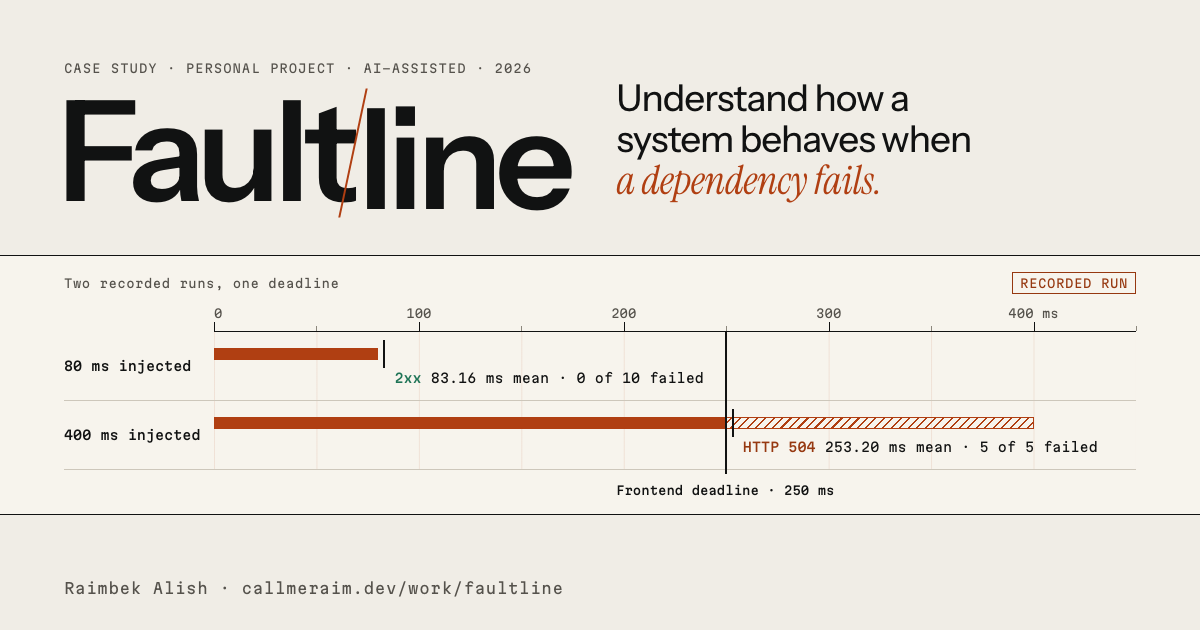
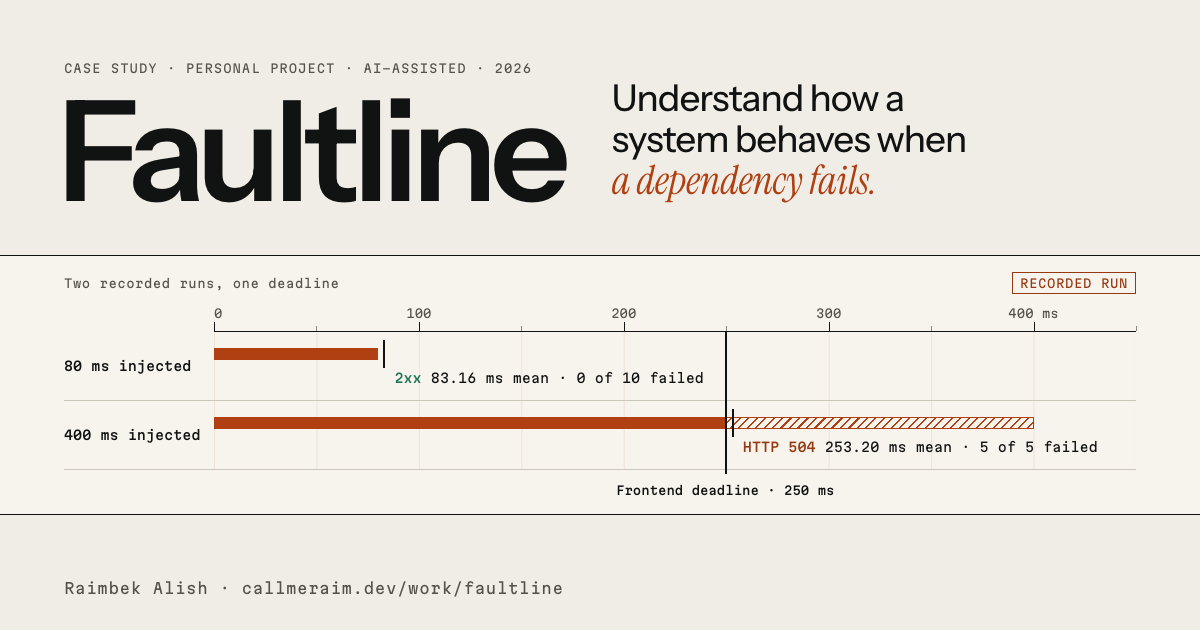
fix(design): keep the hero statement clear of the name; plain Faultline title; phone-sized status chapter
Hero: on short, wide screens the name is sized by the viewport's height, so its second
line starts further left, and the statement could run into "Alish" (seen at 1200 × 630
and 1280 × 600). The statement's width is now capped at the start of that line
(--line2-at, measured in em of the name). The overlap check is clean at 12 sizes.

Faultline: the title's slash through the "t" and the dropped "line" read as
"Fault/line" at phone size. The homepage showcase and the case study now set the name
plainly, like the other case-study titles; the social card is re-rendered to match.

Faultline case study, on phones:
- The status chapter keeps a per-status key with counts in view and moves the twelve
  capabilities and their sources into a fold (open in the HTML; folded on phones and
  tablets; a link into the page keeps it open). On phones it goes from 2,189 px to
  704 px.
- The dashboard figure links to the screenshot at full size (1440 × 1082) and to the
  original in the repository.

Changed region(s): [[0.2775, 0.1206, 0.8325, 0.3317]]

diff --git a/src/work/faultline/sections/Chapters.tsx b/src/work/faultline/sections/Chapters.tsx
@@ -19,6 +19,7 @@ import {
   traceChain,
   traceRun,
   validation,
+  type CapabilityStatus,
   type RecordedRun,
 } from "../../../content/faultline";
 import { caseStudy as reproseedCase } from "../../../content/reproseed";
@@ -288,9 +289,14 @@ export function Records() {
               <EvidenceTag kind="screenshot" />
             </span>
             <span>{shot.caption}</span>
-            <a className="fl-original" href={shot.original} target="_blank" rel="noreferrer">
-              Open the original screenshot (PNG, 1440 × 1082) <ArrowUpRight aria-hidden="true" strokeWidth={1.75} />
-            </a>
+            <span className="fl-shot-links">
+              <a className="fl-original" href={shot.src} target="_blank" rel="noreferrer">
+                View at full size ({shot.width} × {shot.height}) <ArrowUpRight aria-hidden="true" strokeWidth={1.75} />
+              </a>
+              <a className="fl-original" href={shot.original} target="_blank" rel="noreferrer">
+                The original in the repository (PNG) <ArrowUpRight aria-hidden="true" strokeWidth={1.75} />
+              </a>
+            </span>
           </figcaption>
         </figure>
         <dl className="fl-records-facts">
@@ -351,33 +357,38 @@ export function Status() {
       title="The repository holds more than the release."
       lede={intro.release}
     >
-      <p className="fl-caps-cap" id="fl-status-cap">Capabilities by status, at main {faultline.commit.sha}</p>
-      <div className="fl-caps-head" aria-hidden="true">
-        <span>Capability</span>
-        <span>Status</span>
-        <span>Detail</span>
-      </div>
-      <ul className="fl-caps" aria-labelledby="fl-status-cap">
-        {capabilities.map((c) => (
-          <li key={c.name} className="fl-cap" data-status={c.status}>
-            <b className="fl-cap-name">{c.name}</b>
-            <span className="fl-cap-status">
-              <span className="fl-chip" data-status={c.status}>{capabilityStatus[c.status].label}</span>
-            </span>
-            <span className="fl-cap-note">
-              {c.note} <Cite href={c.source}>Source</Cite>
-            </span>
-          </li>
-        ))}
-      </ul>
       <dl className="fl-chip-key">
-        {Object.entries(capabilityStatus).map(([key, s]) => (
+        {(Object.keys(capabilityStatus) as CapabilityStatus[]).map((key) => (
           <div key={key}>
-            <dt><span className="fl-chip" data-status={key}>{s.label}</span></dt>
-            <dd>{s.detail}</dd>
+            <dt>
+              <span className="fl-chip" data-status={key}>{capabilityStatus[key].label}</span>
+              <span className="fl-chip-count">{capabilities.filter((c) => c.status === key).length}</span>
+            </dt>
+            <dd>{capabilityStatus[key].detail}</dd>
           </div>
         ))}
       </dl>
+      <Fold summary={`All ${capabilities.length} capabilities, with their sources`}>
+        <p className="fl-caps-cap" id="fl-status-cap">Capabilities by status, at main {faultline.commit.sha}</p>
+        <div className="fl-caps-head" aria-hidden="true">
+          <span>Capability</span>
+          <span>Status</span>
+          <span>Detail</span>
+        </div>
+        <ul className="fl-caps" aria-labelledby="fl-status-cap">
+          {capabilities.map((c) => (
+            <li key={c.name} className="fl-cap" data-status={c.status}>
+              <b className="fl-cap-name">{c.name}</b>
+              <span className="fl-cap-status">
+                <span className="fl-chip" data-status={c.status}>{capabilityStatus[c.status].label}</span>
+              </span>
+              <span className="fl-cap-note">
+                {c.note} <Cite href={c.source}>Source</Cite>
+              </span>
+            </li>
+          ))}
+        </ul>
+      </Fold>
     </Chapter>
   );
 }

diff --git a/src/work/faultline/styles/page.css b/src/work/faultline/styles/page.css
@@ -23,12 +23,6 @@
 .fl-hero-text { grid-column: 1 / 8; container-type: inline-size; }
 /* "Faultline" is about 4.1em wide at this weight and tracking: fit it to the text column. */
 .fl-hero-title { margin: 14px 0 0 -.045em; font-size: min(23cqw, 178px); font-weight: 600; line-height: .86; letter-spacing: -.05em; }
-/* "line" has slipped along a fault, as on the homepage. */
-.fl-slip { position: relative; display: inline-block; margin-left: .035em; transform: translateY(.06em); }
-.fl-slip::before {
-  content: ""; position: absolute; left: -.045em; top: -.08em; bottom: .02em; width: max(2px, .016em);
-  background: var(--fl-fault); transform: skewX(-12deg);
-}
 .fl-hero-thesis { max-width: 14em; margin-top: 26px; font-size: clamp(26px, 3vw, 44px); font-weight: 450; line-height: 1.1; letter-spacing: -.028em; text-wrap: balance; }
 .fl-hero-thesis em { font-family: var(--serif); font-style: italic; font-weight: 400; font-size: 1.08em; letter-spacing: -.01em; color: var(--fl-fault); }
 .fl-hero-aside { grid-column: 8 / 13; display: grid; gap: 14px; padding-bottom: 6px; }
@@ -197,6 +191,7 @@
   color: var(--ink); text-decoration: underline; text-underline-offset: 4px; text-decoration-thickness: 1px;
 }
 .fl-original:hover { text-decoration-thickness: 2px; }
+.fl-shot-links { display: flex; flex-wrap: wrap; gap: 0 24px; }
 .fl-original svg { width: 14px; height: 14px; }
 .fl-records-facts { grid-column: 9 / 13; display: grid; gap: 18px; }
 .fl-records-facts > div { padding-top: 12px; border-top: 1px solid var(--ink); }
@@ -241,8 +236,12 @@
 .fl-chip[data-status="planned"]::before { border: 1.5px dotted var(--ink-2); }
 .fl-chip[data-status="unsupported"] { color: var(--ink-2); }
 .fl-chip[data-status="unsupported"]::before { width: 9px; height: 9px; background: linear-gradient(45deg, transparent 45%, var(--ink-2) 45% 55%, transparent 55%), linear-gradient(-45deg, transparent 45%, var(--ink-2) 45% 55%, transparent 55%); }
-.fl-chip-key { display: grid; grid-template-columns: repeat(3, minmax(0, 1fr)); gap: 12px var(--g); margin-top: 20px; }
+/* The counts by status: the chapter's summary, always shown above the full list. */
+.fl-chip-key { display: grid; grid-template-columns: repeat(3, minmax(0, 1fr)); gap: 14px var(--g); margin-bottom: 22px; }
+.fl-chip-key dt { display: flex; align-items: center; gap: 10px; }
+.fl-chip-count { font: 500 16px/1 var(--mono); font-variant-numeric: tabular-nums; }
 .fl-chip-key dd { margin-top: 4px; font-size: 13px; line-height: 1.4; color: var(--ink-2); }
+#status .cs-fold-body { padding-top: 14px; }
 
 /* ---------- 06 · What the record shows ---------- */
 .fl-close { display: grid; grid-template-columns: repeat(3, minmax(0, 1fr)); gap: 32px var(--g); }

diff --git a/src/signal-path/sections/Faultline.tsx b/src/signal-path/sections/Faultline.tsx
@@ -9,8 +9,6 @@ import { CaseStudyLink, OutLink, WorkIndex } from "../ui";
 
 const lead = fl.thesis.endsWith(fl.accent) ? fl.thesis.slice(0, -fl.accent.length) : fl.thesis;
 const accent = lead === fl.thesis ? "" : fl.accent;
-// "Faultline", set with "line" slipped along a fault; any other name is set plainly.
-const slip = fl.name.startsWith("Fault") ? 5 : fl.name.length;
 
 const { run, stages } = fl;
 /** The strip's scale, 0 to 460 ms: room above the 400 ms line for its label. */
@@ -68,10 +66,7 @@ export default function Faultline() {
       <div className="sp-fl-head">
         <header className="sp-fl-intro">
           <p className="sp-kicker"><WorkIndex id={sectionIds.faultline} /> — {fl.kind} · <span className="sp-nowrap">{fl.authorshipShort}</span></p>
-          <h2 className="sp-fl-title" id="sp-fl-title">
-            {fl.name.slice(0, slip)}
-            {slip < fl.name.length && <span className="sp-fl-slip">{fl.name.slice(slip)}</span>}
-          </h2>
+          <h2 className="sp-fl-title" id="sp-fl-title">{fl.name}</h2>
           <p className="sp-fl-thesis">
             {lead}
             {accent && <em>{accent}</em>}

diff --git a/src/signal-path/styles/hero.css b/src/signal-path/styles/hero.css
@@ -50,10 +50,12 @@
 .sp-head { position: absolute; left: 0; top: 0; z-index: 4; width: 10px; height: 10px; margin: -5px 0 0 -5px; pointer-events: none; }
 .sp-head-core { display: block; width: 100%; height: 100%; background: var(--mint); box-shadow: 0 0 0 1.5px var(--ink); opacity: 0; }
 
-/* The statement sits left of the second line; its last baseline meets the name's. */
+/* The statement sits left of the second line; its last baseline meets the name's. On short screens
+   the name is sized by the height and its second line moves left, so the statement never runs past
+   the start of that line. */
 .sp-statement {
   grid-column: 1 / 4; grid-row: 2; align-self: end; position: relative; z-index: 1;
-  max-width: 15em; margin-bottom: calc(.07 * var(--name-size) - .2em);
+  max-width: min(15em, calc(var(--line2-at) * var(--name-size) - var(--g))); margin-bottom: calc(.07 * var(--name-size) - .2em);
   font-size: clamp(19px, 1.62vw, 26px); font-weight: 450; line-height: 1.18; letter-spacing: -.022em;
   text-wrap: balance;
 }

diff --git a/src/signal-path/styles/faultline.css b/src/signal-path/styles/faultline.css
@@ -10,12 +10,6 @@
 }
 .sp-fl-intro { grid-column: 1 / 8; }
 .sp-fl-title { margin-top: 14px; font-size: clamp(48px, 6.6vw, 112px); font-weight: 600; line-height: .9; letter-spacing: -.05em; }
-/* "line" has slipped along a fault: set a little lower, the fault drawn as a slanted hairline. */
-.sp-fl-slip { position: relative; display: inline-block; margin-left: .035em; transform: translateY(.06em); }
-.sp-fl-slip::before {
-  content: ""; position: absolute; left: -.045em; top: -.08em; bottom: .02em; width: max(1.5px, .018em);
-  background: var(--fl-fault); transform: skewX(-12deg);
-}
 .sp-fl-thesis { max-width: 15em; margin-top: 20px; font-size: clamp(22px, 2.2vw, 34px); font-weight: 450; line-height: 1.12; letter-spacing: -.024em; text-wrap: balance; }
 .sp-fl-thesis em { font-family: var(--serif); font-style: italic; font-weight: 400; font-size: 1.08em; letter-spacing: -.01em; color: var(--fl-fault); }
 

diff --git a/src/work/faultline/sections/Hero.tsx b/src/work/faultline/sections/Hero.tsx
@@ -85,9 +85,7 @@ export default function Hero() {
           <p className="sp-kicker">
             Case study · {intro.kind} · <span className="sp-nowrap">{intro.assisted}</span> · {intro.year}
           </p>
-          <h1 className="fl-hero-title" id="fl-title">
-            Fault<span className="fl-slip">line</span>
-          </h1>
+          <h1 className="fl-hero-title" id="fl-title">Faultline</h1>
           <p className="fl-hero-thesis">
             {lead}
             {accent && <em>{accent}</em>}

diff --git a/src/signal-path/styles/tokens.css b/src/signal-path/styles/tokens.css
@@ -119,6 +119,8 @@
   --bar-h: 60px;
   /* Width of "Raimbek" in em at the name's weight and tracking (measured in Chromium). */
   --name-em: 3.78;
+  /* Where the name's second line, "Alish.", starts, in em of the name (measured in Chromium). */
+  --line2-at: 1.447;
 
   /* Motion tokens (mirrors src/signal-path/motion.ts). */
   --dur-feedback: 160ms;
